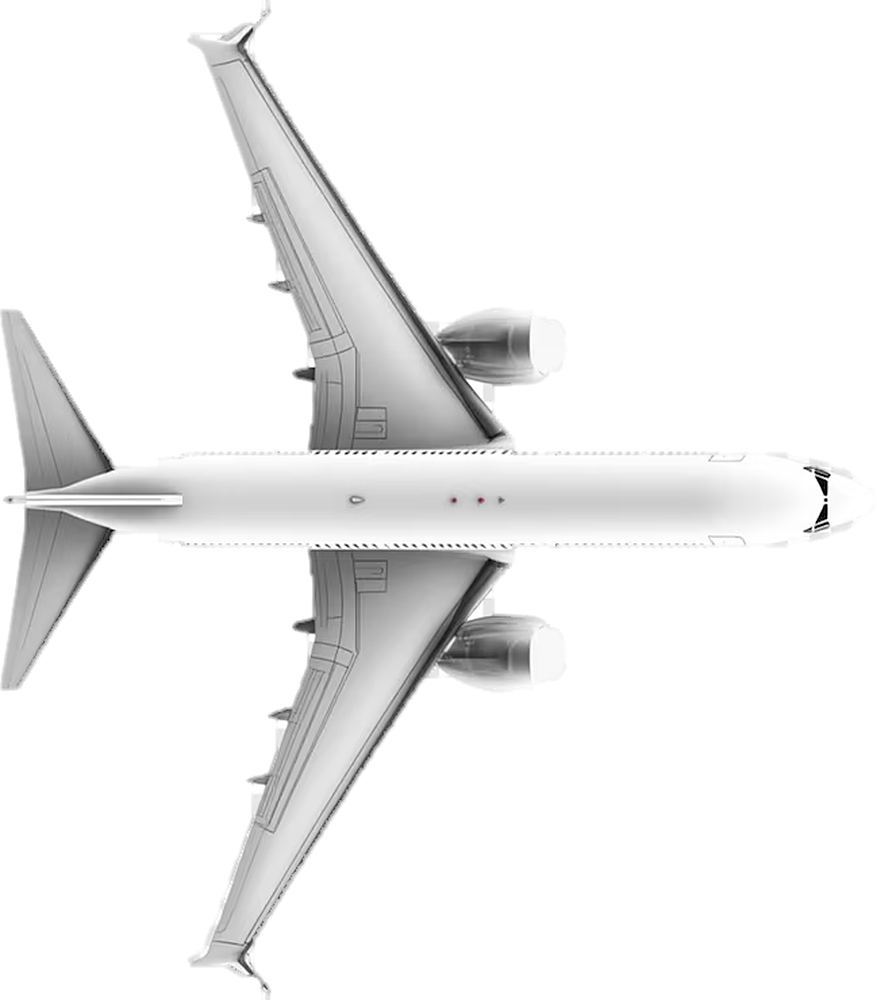
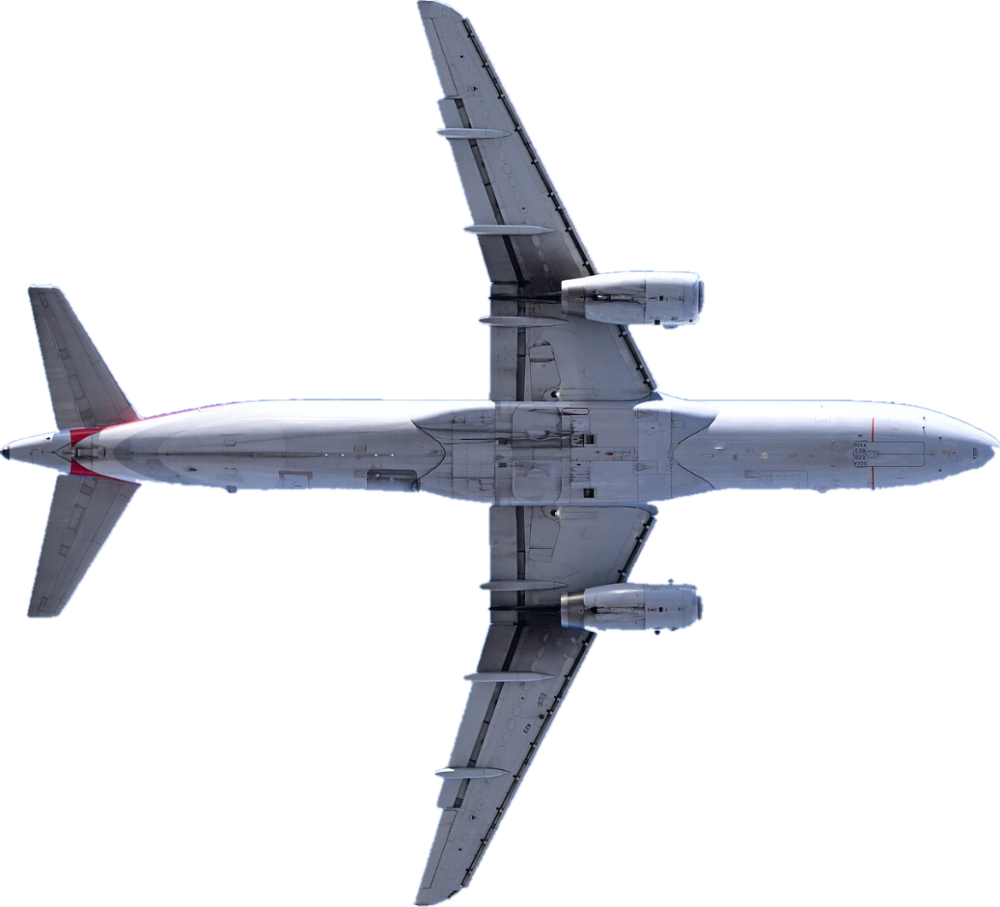
Imagens reais (vista inferior, CC BY 4.0 de 4300streetcar/Arpingstone-style fotos do Wikimedia Commons) para 737-800, A320, A321 e E195
Fotos: American A320 N653AW, American 737-800 N886NN, Delta A321 N306DN e JetBlue E190 N274JB (autor 4300streetcar, CC BY 4.0).
Fundo removido, livrées neutralizadas, nariz à direita.

Claude-Session: https://claude.ai/code/session_01AfRCXEonhhh6YAB8cQkHg9

Changed region(s): [[0.0, 0.0, 1.0, 1.0]]

diff --git a/index.html b/index.html
@@ -885,9 +885,10 @@ let AE = { sx:1, sy:1, spec:null }, aeroKey = '';
 // Imagens (vista de cima, nariz para a direita) usadas no lugar do desenho genérico.
 // halfW: meia largura da fuselagem (m); motor: posição do motor direito em metros (x para o nariz, y para a lateral), usada para o fogo no motor.
 const AERO_IMG = {
-  a320: { src:'a320-topo.png', halfW:1.6, motor:{ x:2.6, y:5.4 } },
-  a321: { src:'a321-topo.png', halfW:2.0, motor:{ x:4.7, y:6.3 } },
-  b738: { src:'b738-topo.png', halfW:1.75, motor:{ x:3.9, y:4.8 } }
+  a320: { src:'a320-topo.png', halfW:1.76, motor:{ x:4.96, y:6.08 } },
+  a321: { src:'a321-topo.png', halfW:1.90, motor:{ x:4.45, y:5.99 } },
+  b738: { src:'b738-topo.png', halfW:1.68, motor:{ x:4.15, y:5.0 } },
+  e195: { src:'e195-topo.png', halfW:1.43, motor:{ x:4.57, y:4.15 } }
 };
 for (const id in AERO_IMG) {
   const o = AERO_IMG[id]; o.img = new Image();
